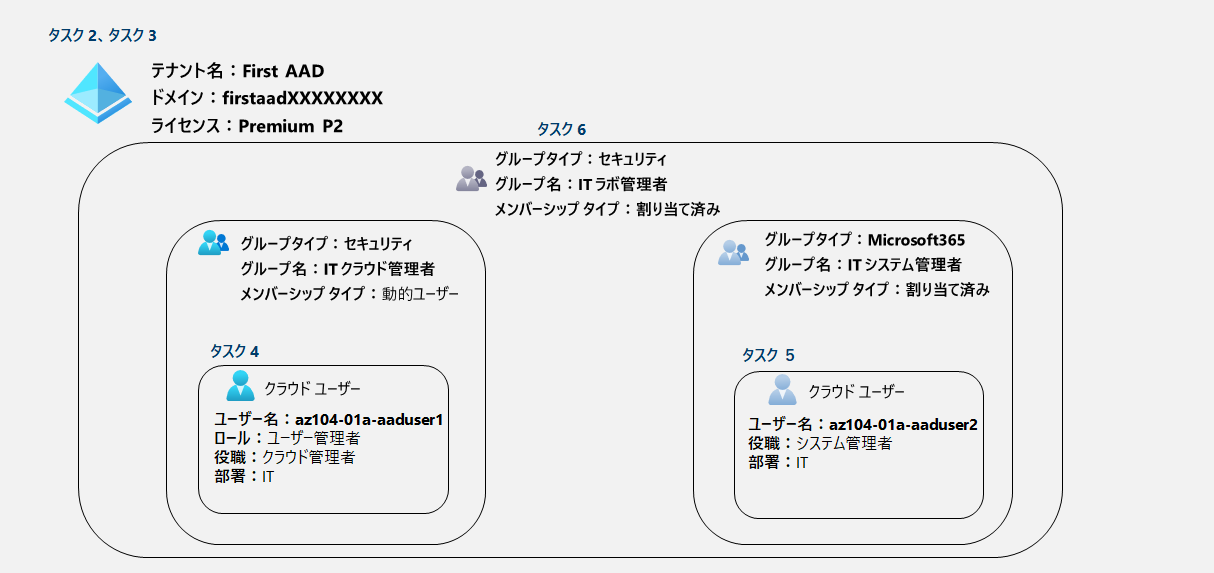
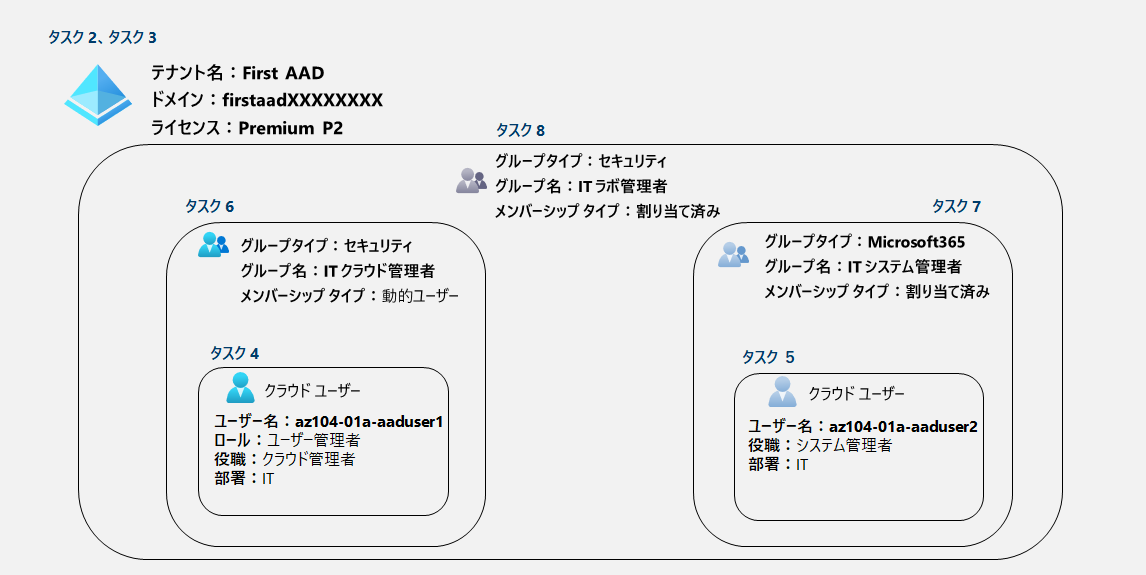
update
update

diff --git a/LabManual/LAB_01-Manage_Azure_Active_Directory_Identities.md b/LabManual/LAB_01-Manage_Azure_Active_Directory_Identities.md
@@ -17,12 +17,22 @@ lab:
 このラボでは次の内容を学習します。
 
 + タスク １：Azure Portalへサインイン
+
 + タスク ２：新たなテナントを作成
+
 + タスク ３：Premium ライセンスを有効化
+
 + タスク ４：ユーザー作成とロール付与
+
 + タスク ５：ユーザー作成とライセンス付与
-+ タスク ６：セキュリティ 動的グループの作成
-+ タスク ７：動的グループの作成
+
++ タスク ６：セキュリティグループ（動的ユーザー）の作成
+
++ タスク ７：Microsoft365グループ（割り当て済み）の作成（オプション）
+
++ タスク ８：セキュリティグループ（割り当て済み）の作成 （オプション）
+
+  **※（オプション）は時間がある場合に実施してください。**
 
 ## 予想時間: 40 分
 
@@ -43,7 +53,7 @@ lab:
 
 #### タスク ２：新たなテナントを作成
 
-> **シナリオ：このタスクでは、新たに「First AAD」テナントを作成します。****
+> **シナリオ：このタスクでは、新たに「First AAD」テナントを作成します。**
 
 1. Azure portal の画面上部にある検索ボックス「**Azure Active Directory**」 と入力します。
 
@@ -79,9 +89,7 @@ lab:
 
    作成したテナント名「**Frist AAD**」のリンクをクリックします。
 
-1.  ブレードが表示されます。画面右上のユーザーアイコン部分も「**FIRST AAD**」に変わったことを確認します。
-
-   > 注：新しいテナントに切り替りました。自身が今、どのテナントで操作しているかを意識してください。
+1. ブレードが表示されます。画面右上のユーザーアイコン部分も「**FIRST AAD**」に変わったことを確認します。
 
 
 
@@ -101,9 +109,6 @@ lab:
 
    > 注：画面右上にあるベルのマークを「通知アイコン」と言い、Azure上の操作、変更履歴、エラーなどの通知をします。
    >
-   > 　　Webブラウザを再読み込みすると通知はクリアされます。過去の通知を見る場合は
-   >
-   > 　「**テナント名 | 概要**」ブレードの左ツリーにある「**アクティビティログ**」から確認することが可能です。
 
 1. 通知が表示された後、左ツリーにある「すべての製品」をクリックします。
 
@@ -112,6 +117,8 @@ lab:
    > 注：ライセンスの反映から表示されるまで時間がかかる場合があります。
    >
    > 　　Webブラウザを何度か再読み込みする必要があります。
+   >
+   > 注：表示に時間を要する場合があります。**2分ほど待っても変わらない場合はタスク4**に進んでください。
 
 1. Azure portal の画面上部にある検索ボックス「**Azure Active Directory**」 と入力します。
 
@@ -124,8 +131,10 @@ lab:
    > 注：ライセンスの反映から表示されるまで時間がかかる場合があります。
    >
    > 　　Webブラウザを何度か再読み込みする必要があります。
-   
-   
+   >
+   > 注：表示に時間を要する場合があります。**2分ほど待っても変わらない場合はタスク4**に進んでください。
+
+
 
 #### タスク ４：ユーザー作成とロール付与
 
@@ -237,9 +246,9 @@ lab:
 
 1. 「**InPrivate**」または「**シークレット**」モードのWebブラウザを閉じます。
 
-      
+   
 
-#### タスク ６：動的グループの作成
+#### タスク ６：セキュリティグループ（動的ユーザー）の作成
 
 >**シナリオ：このタスクではセキュリティグループ(動的ユーザー)を作成します。**
 
@@ -295,48 +304,63 @@ lab:
 
    > 注：表示されない場合、画面内の「更新」またはWebブラウザの再読み込みを行います。
 
-> **まとめ：今回のタスクでは、「セキュリティグループ」と動的メンバーシップについて確認しました。**
->
-> 　　　　**動的メンバーシップの設定で、実際にユーザーなどが参加するのには10分前後かかります。**
->
-> 　　　　**演習内では「ルールの検証」を使い、速やかに確認しました。**
->
-> 　　　　**改めて参加しているか確認したい場合は、少し時間をあけて確認してください。**
->
-> 　　　　**対象のグループを選択し「メンバー」から確認することが可能です。**
 
 
-
-#### タスク 7：Microsoft365 グループの作成
+#### タスク ７：Microsoft365グループ（割り当て済み）の作成（オプション）
 
 >**シナリオ：このタスクではMicrosoft365 グループ(割り当て済み)を作成します。**
+>
+>　　　　　**※この演習はオプション演習です。時間がある場合に実施してください。**
 
 1. 「**グループ | すべてのグループ**」ブレードにある「**新しいグループ**」をクリックします。
 
-1. 「**新しいグループ**」 ブレードで以下の項目を入力します。
+1. 「**新しいグループ**」 ブレードで以下の項目を入力し「**作成**」をクリックします。
 
    > 注：表に無い項目は[デフォルトの値]または[未入力]となります。
-   >
-   > 注：メンバーシップの種類を「**動的ユーザー**」に指定する場合、**Premium P1/P2**のライセンスが必要となります。
-   >
-   > 　　ライセンスがない場合、グレーアウトされ「割り当て済み」の選択となります。
+
+   | 設定                                               | 値                                                          |
+   | -------------------------------------------------- | ----------------------------------------------------------- |
+   | グループの種類                                     | **Microsoft 365**                                           |
+   | グループ名                                         | **IT システム管理者**                                       |
+   | グループのメールアドレス                           | **IT_Sytem_Admin**                                          |
+   | グループの説明                                     | **Contoso IT システム管理者**                               |
+   | グループに Azure AD ロールを割り当てることができる | **いいえ**                                                  |
+   | メンバーシップの種類                               | **割り当て済み**                                            |
+   | 所有者                                             | **所有者が選択されていません**<br />※所有者は指定しません。 |
+   | メンバー                                           | **az104-01a-aaduser2**                                      |
+
+1. 「**グループ | すべてのグループ**」ブレードに遷移し、一覧に作成したグループ「**IT クラウド管理者**」が表示されたことを確認します。
+
+   > 注：表示されない場合、画面内の「更新」またはWebブラウザの再読み込みを行います。
+
+
+
+
+#### タスク ８：セキュリティグループ(割り当て済み)の作成（オプション）
+
+>**シナリオ：このタスクではセキュリティ グループ(割り当て済み)を作成します。**
+>
+>　　　　　**※この演習はオプション演習です。時間がある場合に実施してください。**
+
+1. 「**グループ | すべてのグループ**」ブレードにある「**新しいグループ**」をクリックします。
+
+1. 「**新しいグループ**」 ブレードで以下の項目を入力し「**作成**」をクリックします。
+
+   > 注：表に無い項目は[デフォルトの値]または[未入力]となります。
 
    | 設定                                               | 値                                                          |
    | -------------------------------------------------- | ----------------------------------------------------------- |
    | グループの種類                                     | **セキュリティ**                                            |
-   | グループ名                                         | **IT クラウド管理者**                                       |
-   | グループの説明                                     | **Contoso IT クラウド管理者**                               |
+   | グループ名                                         | **IT ラボ管理者**                                           |
+   | グループの説明                                     | **Contoso ITラボ管理者**                                    |
    | グループに Azure AD ロールを割り当てることができる | **いいえ**                                                  |
-   | メンバーシップの種類                               | **動的ユーザー**                                            |
+   | メンバーシップの種類                               | **割り当て済み**                                            |
    | 所有者                                             | **所有者が選択されていません**<br />※所有者は指定しません。 |
+   | メンバー                                           | ・**IT クラウド管理者**<br />・**IT システム管理者**        |
 
-1. 「**動的クエリの追加**」をクリックし、以下の項目でルールの構成を設定します。
+1. 「**グループ | すべてのグループ**」ブレードに遷移し、一覧に作成したグループ「**IT ラボ管理者**」が表示されたことを確認します。
 
-
-
-
-
-
+   > 注：表示されない場合、画面内の「更新」またはWebブラウザの再読み込みを行います。
 
 
 
@@ -344,20 +368,13 @@ lab:
 
 このラボでは次の内容を学習しました。
 
-- Azure AD ユーザーを作成および設定しました
-- 割り当て済みおよび動的メンバーシップを持つ Azure AD グループを作成しました
-- Azure Active Directory (AD) テナントを作成しました
-- Azure AD ゲスト ユーザーを管理しました 
+- タスク １：Azure Portalへサインイン
+- タスク ２：新たなテナントを作成
+- タスク ３：Premium ライセンスを有効化
+- タスク ４：ユーザー作成とロール付与
+- タスク ５：ユーザー作成とライセンス付与
+- タスク ６：セキュリティグループ（動的ユーザー）の作成
+- タスク ７：Microsoft365グループ（割り当て済み）の作成（オプション）
+- タスク ８：セキュリティグループ（割り当て済み）の作成 （オプション）
 
 
-
-
-
-たすくリストのてすと
-
-- [ ] 1.一覧にある「**Azure Active Directory Premium P2**」をクリックします。
-- [ ] 2.「**Azure Active Directory Premium P2 | ライセンスされているユーザー**」ブレードにある「**＋割り当て**」をクリックします。
-- [ ] 3.「**ライセンスの割り当て**」ブレードの「**ユーザーとグループ**」タブにある「**+ユーザーとグループの追加**」をクリックします。
-- [ ] 4.画面右から表示される「**ユーザーとグループの追加**」から「**LabUser-XXXXXXXX**」をクリックし、さらに「**選択**」をクリックします。
-- [ ] 5.画面下部にある「**レビューと割り当て**」をクリックします。
-- [ ] 6.「**ライセンスの割り当て**」ブレードの「**レビューと割り当て**」タブにある内容を確認し、「割り当て」をクリックます。
